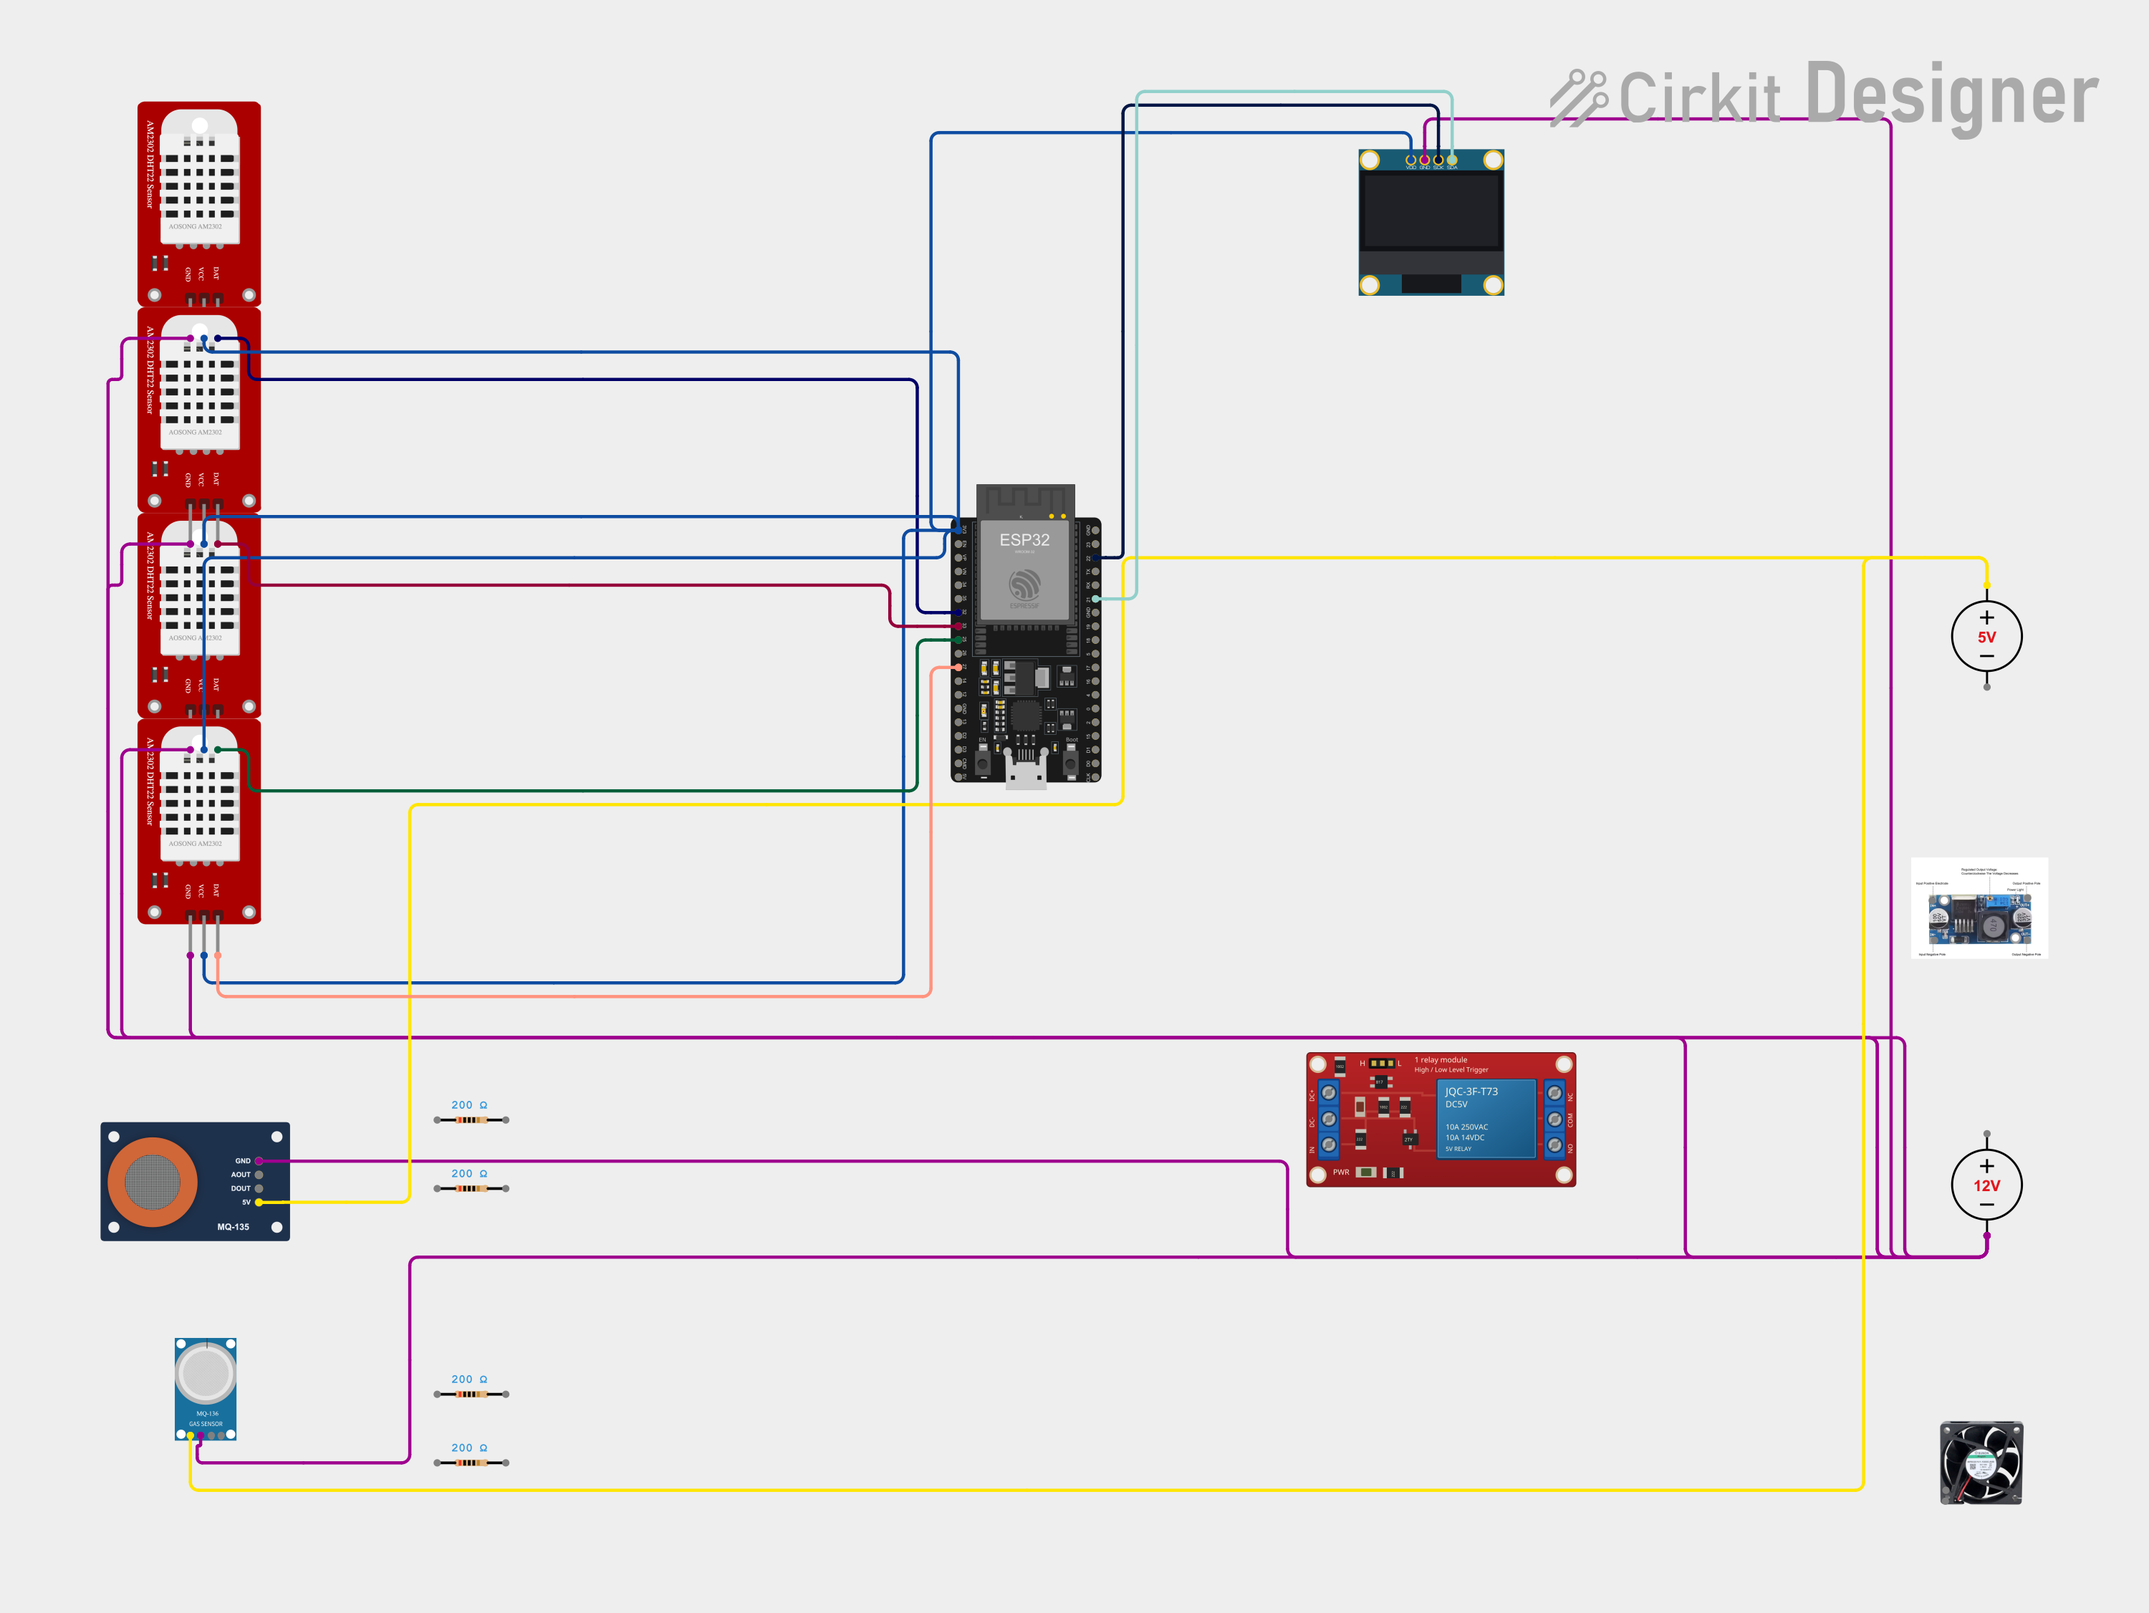
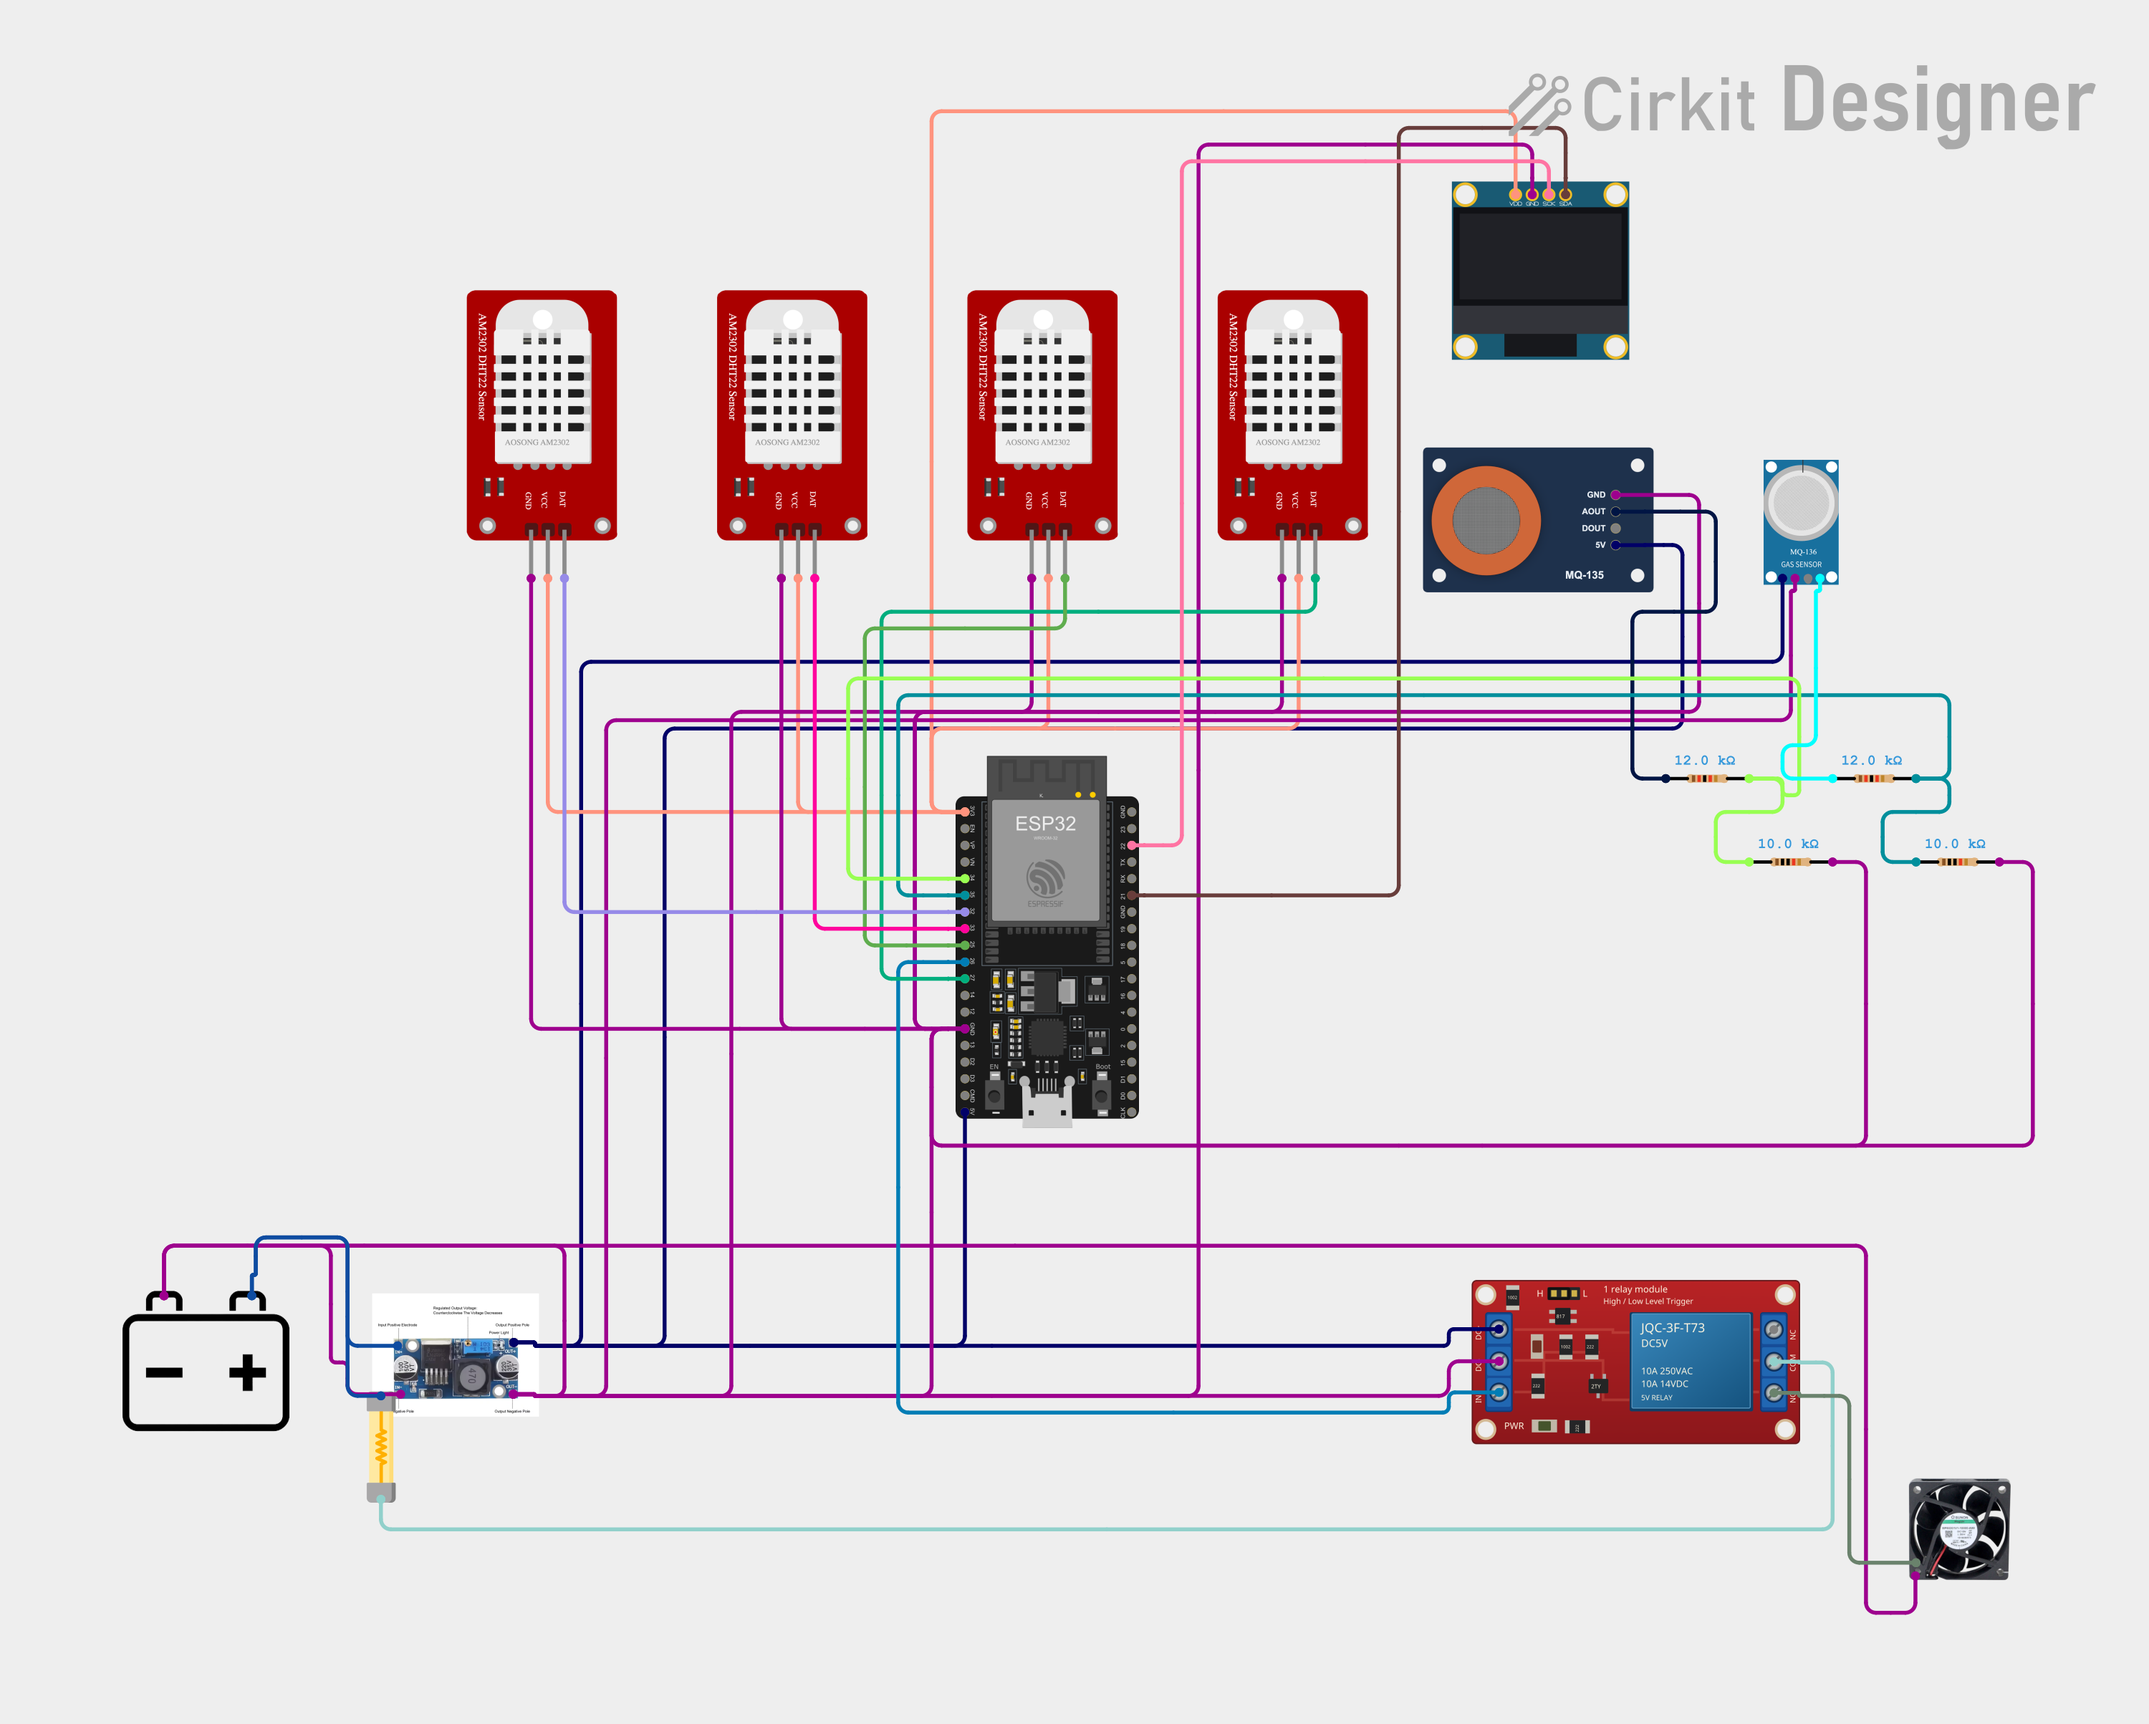
docs(hardware): final PoC circuit export, record where it differs from HARDWARE.md

Changed region(s): [[0.031, 0.0311, 0.961, 0.9325], [0.775, 0.6217, 0.806, 0.6838], [0.62, 0.4973, 0.651, 0.5284]]

diff --git a/docs/hardware/HARDWARE.md b/docs/hardware/HARDWARE.md
@@ -17,7 +17,21 @@ Pin truth: `firmware/include/config.h`. This file must match it.
 
 ![PoC circuit](wiring-poc.png)
 
-`wiring-poc.png` (Cirkit Designer export). **Diagram TODO:** the drawing must also show the protection parts in §A2 (flyback diode across the fan, 1 A slow-blow fuse at relay COM, main 2 A fuse at adapter +, 10 kΩ pull-down on relay IN). Until it does, the text below is the build truth.
+`wiring-poc.png` (Cirkit Designer export, final PoC circuit, 5 Nov 2026).
+
+**What the diagram shows (checked against this file on 5 Nov 2026):** DHT22 DAT → GPIO 32 / 33 / 25 / 27 with VCC on 3V3; MQ-135 / MQ-136 AOUT → 12 kΩ → node → 10 kΩ → GND, nodes → GPIO 34 / 35; relay IN → GPIO 26, relay DC+ and MQ 5V from the LM2596 output rail, ESP32 fed on its 5V pin; COM fed from 12 V + through a fuse, NO → fan +; OLED SDA 21 / SCL 22 on 3V3; one common ground.
+
+**Where the diagram differs from this file (this file is the build truth):**
+- The 12 V source is drawn as a **battery**; on the bench we use the 12 V 2 A adapter. Wiring is the same.
+- **One fuse is drawn**, on the fan path (12 V + → relay COM), with no value. Fit **1 A slow-blow** there.
+- **Main 2 A fuse not drawn.** In the drawing the buck IN+ goes straight to 12 V +. Fit the 2 A fuse at adapter/battery + so it feeds everything, buck included.
+- **Flyback diode not drawn** (1N4007 / 1N5819 across the fan, stripe to fan +).
+- **10 kΩ pull-down on relay IN not drawn.**
+- Relay trigger jumper position is not shown; it must be on **H**.
+- The drawing does not label which DHT22 is TOP / MID / BOT / AMB. Use the pin map in §A4 and the B1 breath test.
+- Optional SCD41, BME688 and DS18B20 are not drawn.
+
+**Diagram TODO:** redraw with the 2 A main fuse, the 1 A value on the fan fuse, the flyback diode, the 10 kΩ pull-down, the jumper on H and the DHT position labels.
 
 ## A1. Summary
 
